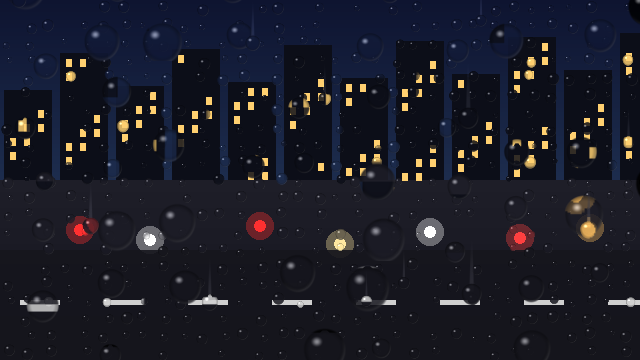
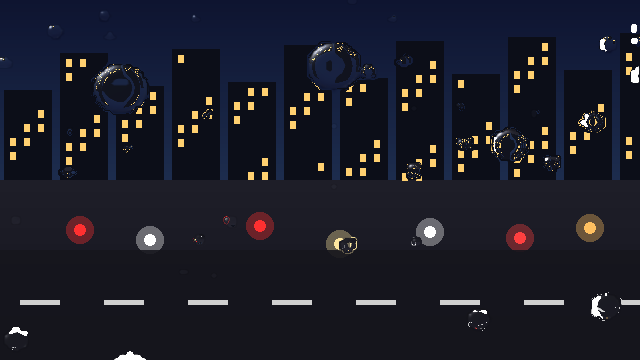
perf(engine): flash sprites with a cached silhouette overlay instead of a filter pass
A flashing sprite cost one extra render pass (323 ms per frame at 1000 sprites
on WebGL, 184 ms on WebGPU). It is now a batched overlay sprite over a
white silhouette texture built once per source texture: 1.2 and 1.8 ms at 1000,
same pixels. The filter remains the fallback while a silhouette cannot be built.

diff --git a/packages/engine/src/systems/RenderPipeline.ts b/packages/engine/src/systems/RenderPipeline.ts
@@ -40,7 +40,7 @@ import type { SceneRenderer } from "../Game.js";
 import { Sprite, resolveSpriteFramePath } from "../components/Sprite.js";
 import { SpriteFlash } from "../components/SpriteFlash.js";
 import { FlashFilterPool } from "./SpriteFlashSystem.js";
-import type { ColorOverlayFilter } from "pixi-filters";
+import { ColorOverlayFilter } from "pixi-filters";
 import { Transform } from "../components/Transform.js";
 import { Projection3D } from "../components/Projection3D.js";
 import { RenderSystem, type RenderSystemOptions } from "./RenderSystem.js";
@@ -1375,9 +1375,64 @@ export class RenderPipeline implements SceneRenderer {
   }
 
   /**
-   * Check a pooled `ColorOverlayFilter` out while the entity's `SpriteFlash.amount`
-   * is above 0, return it to the pool otherwise. `_applySpriteShader` (called
-   * right after) attaches/detaches it, after any shader filter.
+   * One white silhouette texture per source texture, built on first flash.
+   * A flash is then a second, batched sprite over the original (tinted the
+   * flash colour at `amount` alpha), which costs a quad instead of the extra
+   * render pass a filter needs per sprite.
+   */
+  private readonly _silhouettes = new WeakMap<Texture, Texture>();
+  private readonly _flashOverlays = new WeakMap<PixiSprite, PixiSprite>();
+  private readonly _overlayPool: PixiSprite[] = [];
+  private _liveOverlays = 0;
+
+  /** Flash overlays currently attached. */
+  get activeFlashOverlayCount(): number {
+    return this._liveOverlays;
+  }
+
+  /** The white silhouette of `texture` (alpha kept), or `undefined` while it cannot be built. */
+  private _silhouetteOf(texture: Texture): Texture | undefined {
+    const cached = this._silhouettes.get(texture);
+    if (cached !== undefined) return cached;
+    if (
+      !this._render.hasRenderer ||
+      texture === Texture.EMPTY ||
+      texture === Texture.WHITE ||
+      texture.orig.width <= 0 ||
+      texture.orig.height <= 0
+    )
+      return undefined;
+    const target = RenderTexture.create({
+      width: texture.orig.width,
+      height: texture.orig.height,
+      resolution: texture.source.resolution,
+    });
+    const source = new PixiSprite(texture);
+    const filter = new ColorOverlayFilter();
+    filter.color = 0xffffff;
+    filter.alpha = 1;
+    source.filters = [filter];
+    this._render.renderer.render({ container: source, target, clear: true });
+    source.destroy();
+    filter.destroy();
+    this._silhouettes.set(texture, target);
+    return target;
+  }
+
+  private _releaseFlashOverlay(pixiSprite: PixiSprite): void {
+    const overlay = this._flashOverlays.get(pixiSprite);
+    if (overlay === undefined) return;
+    this._flashOverlays.delete(pixiSprite);
+    pixiSprite.removeChild(overlay);
+    this._liveOverlays--;
+    this._overlayPool.push(overlay);
+  }
+
+  /**
+   * While the entity's `SpriteFlash.amount` is above 0 the sprite shows a
+   * silhouette overlay; the pooled `ColorOverlayFilter` remains the fallback
+   * for a texture whose silhouette cannot be built (no renderer yet, a
+   * texture still loading). `_applySpriteShader` attaches/detaches the filter.
    */
   private _resolveSpriteFlash(
     pixiSprite: PixiSprite,
@@ -1388,12 +1443,33 @@ export class RenderPipeline implements SceneRenderer {
       : undefined;
     const held = this._flashFilters.get(pixiSprite);
     if (flash === undefined || !(flash.amount > 0)) {
+      this._releaseFlashOverlay(pixiSprite);
       if (held !== undefined) {
         this._flashFilters.delete(pixiSprite);
         this._flashPool.release(held);
       }
       return;
     }
+    const silhouette = this._silhouetteOf(pixiSprite.texture);
+    if (silhouette !== undefined) {
+      if (held !== undefined) {
+        this._flashFilters.delete(pixiSprite);
+        this._flashPool.release(held);
+      }
+      let overlay = this._flashOverlays.get(pixiSprite);
+      if (overlay === undefined) {
+        overlay = this._overlayPool.pop() ?? new PixiSprite(silhouette);
+        this._flashOverlays.set(pixiSprite, overlay);
+        pixiSprite.addChild(overlay);
+        this._liveOverlays++;
+      }
+      if (overlay.texture !== silhouette) overlay.texture = silhouette;
+      overlay.anchor.copyFrom(pixiSprite.anchor);
+      overlay.tint = flash.color;
+      overlay.alpha = flash.amount;
+      return;
+    }
+    this._releaseFlashOverlay(pixiSprite);
     if (held !== undefined) {
       this._flashPool.configure(held, flash.color, flash.amount);
       return;
@@ -1815,6 +1891,7 @@ export class RenderPipeline implements SceneRenderer {
   private _removeSprite(tracking: SceneTracking, eid: number): void {
     const pixiSprite = tracking.sprites.get(eid);
     if (pixiSprite === undefined) return;
+    this._releaseFlashOverlay(pixiSprite);
     const held = this._flashFilters.get(pixiSprite);
     if (held !== undefined) {
       this._flashFilters.delete(pixiSprite);

diff --git a/packages/engine/scripts/gpu-verify.harness.ts b/packages/engine/scripts/gpu-verify.harness.ts
@@ -16,6 +16,7 @@ import {
   Scene,
   Transform,
   Sprite,
+  SpriteFlash,
   FontRegistry,
   RainGlassFilter,
   createCustomShaderFilter,
@@ -486,6 +487,7 @@ export async function probe(): Promise<unknown> {
   darkness,
   rendererFilterProbe,
   mapUploadProbe,
+  flashBench,
 };
 void PixiSprite;
 
@@ -627,5 +629,109 @@ export async function rendererFilterProbe(
     rowBands: bands("row"),
     colBands: bands("col"),
     ...(out ? rainStats(base, out) : {}),
+  };
+}
+
+// Waits for the GPU to finish the submitted work (WebGL finish / WebGPU queue drain).
+async function gpuDone(p: RenderPipeline): Promise<void> {
+  const r = p.renderer as unknown as {
+    gl?: WebGL2RenderingContext;
+    gpu?: { device: { queue: { onSubmittedWorkDone(): Promise<void> } } };
+  };
+  if (r.gl) r.gl.finish();
+  else if (r.gpu) await r.gpu.device.queue.onSubmittedWorkDone();
+}
+
+// SpriteFlash cost and correctness: N sprites, all flashing vs none, GPU-finished
+// frame time, plus a pixel check (white silhouette at amount 1, original at 0).
+export async function flashBench(
+  counts: number[] = [50, 200, 1000],
+): Promise<Record<string, unknown>> {
+  W = 640;
+  H = 360;
+  const runs: Record<string, unknown>[] = [];
+  let renderer = "";
+  for (const n of counts) {
+    for (const flashing of [false, true]) {
+      const p = await mkPipeline(640, 360, {
+        textureLoader: () => Promise.resolve(solidTexture()),
+      });
+      renderer = (p.renderer as unknown as { gl?: unknown }).gl
+        ? "webgl"
+        : "webgpu";
+      const s = new Scene();
+      for (let i = 0; i < n; i++) {
+        const e = s.spawn();
+        e.add(Transform, {
+          x: 20 + ((i * 37) % 600),
+          y: 20 + ((i * 53) % 320),
+        });
+        e.add(Sprite, { texturePath: "t.png" });
+        if (flashing)
+          e.add(SpriteFlash, {
+            color: 0xffffff,
+            amount: 1,
+            peak: 1,
+            active: true,
+          });
+      }
+      p.syncEntities(s);
+      await new Promise((r) => setTimeout(r, 100));
+      for (let i = 0; i < 10; i++) p.renderFrame(s);
+      await gpuDone(p);
+      const frames = 60;
+      const t0 = performance.now();
+      for (let i = 0; i < frames; i++) {
+        p.syncEntities(s);
+        p.renderFrame(s);
+      }
+      await gpuDone(p);
+      runs.push({
+        n,
+        flashing,
+        msPerFrame: +((performance.now() - t0) / frames).toFixed(3),
+      });
+    }
+  }
+  // Pixel check: one sprite, amount 1 vs 0.
+  const probe = async (amount: number): Promise<number[]> => {
+    W = 128;
+    H = 128;
+    const p = await mkPipeline(128, 128, {
+      textureLoader: () => Promise.resolve(solidTexture()),
+    });
+    const s = new Scene();
+    const e = s.spawn();
+    e.add(Transform, { x: 64, y: 64 });
+    e.add(Sprite, { texturePath: "t.png" });
+    e.add(SpriteFlash, {
+      color: 0xffffff,
+      amount,
+      peak: 1,
+      active: amount > 0,
+    });
+    p.syncEntities(s);
+    await new Promise((r) => setTimeout(r, 100));
+    p.renderFrame(s);
+    const img = px(p, p.renderer.lastObjectRendered as Container);
+    const k = img.width / 128;
+    const at = (x: number, y: number): number[] => {
+      const i = (Math.floor(y * k) * img.width + Math.floor(x * k)) * 4;
+      return [
+        img.data[i]!,
+        img.data[i + 1]!,
+        img.data[i + 2]!,
+        img.data[i + 3]!,
+      ];
+    };
+    // Sprite 64x64 centred: red half left of x=64, transparent right of the blue strip.
+    return [...at(50, 64), ...at(72, 64), ...at(120, 64)];
+  };
+  return {
+    renderer,
+    runs,
+    flashed: await probe(1),
+    half: await probe(0.5),
+    plain: await probe(0),
   };
 }

diff --git a/packages/engine/dist-types/systems/RenderPipeline.d.ts b/packages/engine/dist-types/systems/RenderPipeline.d.ts
@@ -516,9 +516,25 @@ export declare class RenderPipeline implements SceneRenderer {
   /** Flash filters currently attached (pool checked out). */
   get activeFlashFilterCount(): number;
   /**
-   * Check a pooled `ColorOverlayFilter` out while the entity's `SpriteFlash.amount`
-   * is above 0, return it to the pool otherwise. `_applySpriteShader` (called
-   * right after) attaches/detaches it, after any shader filter.
+   * One white silhouette texture per source texture, built on first flash.
+   * A flash is then a second, batched sprite over the original (tinted the
+   * flash colour at `amount` alpha), which costs a quad instead of the extra
+   * render pass a filter needs per sprite.
+   */
+  private readonly _silhouettes;
+  private readonly _flashOverlays;
+  private readonly _overlayPool;
+  private _liveOverlays;
+  /** Flash overlays currently attached. */
+  get activeFlashOverlayCount(): number;
+  /** The white silhouette of `texture` (alpha kept), or `undefined` while it cannot be built. */
+  private _silhouetteOf;
+  private _releaseFlashOverlay;
+  /**
+   * While the entity's `SpriteFlash.amount` is above 0 the sprite shows a
+   * silhouette overlay; the pooled `ColorOverlayFilter` remains the fallback
+   * for a texture whose silhouette cannot be built (no renderer yet, a
+   * texture still loading). `_applySpriteShader` attaches/detaches the filter.
    */
   private _resolveSpriteFlash;
   /** Shared `CustomShaderFilter` per registered shader id, built lazily on first use. */

diff --git a/packages/engine/dist-types/systems/RenderSystem.d.ts b/packages/engine/dist-types/systems/RenderSystem.d.ts
@@ -303,6 +303,8 @@ export declare class RenderSystem {
    * simultaneous cameras — this method does not attempt that profiling.
    */
   renderMultiCamera(viewports: readonly CameraViewport[]): void;
+  /** `true` once `init()` has built the pixi renderer. */
+  get hasRenderer(): boolean;
   get renderer(): Renderer;
   get stage(): Container;
   get canvas(): HTMLCanvasElement;

diff --git a/packages/engine/src/systems/RenderSystem.ts b/packages/engine/src/systems/RenderSystem.ts
@@ -927,6 +927,11 @@ export class RenderSystem {
     this._renderer.render(this._multiCameraCompositor);
   }
 
+  /** `true` once `init()` has built the pixi renderer. */
+  get hasRenderer(): boolean {
+    return this._renderer !== null;
+  }
+
   get renderer(): Renderer {
     if (this._renderer === null)
       throw new Error("RenderSystem not initialized");

diff --git a/docs/gpu-verify/README.md b/docs/gpu-verify/README.md
@@ -63,3 +63,19 @@ Harness fixes found on the way: readbacks are in device pixels (the harness now 
 holds at a device pixel ratio of 2); the old "trails elongate" check compared wet-mark run lengths and failed
 identically on software and on the real GPU, so it is now a same-seed frame difference with the ratios logged
 for information. Whether trails read as vertical streaks is a visual call.
+
+### Sprite flash cost (fixed)
+
+`SpriteFlash` was a pooled `ColorOverlayFilter` per flashing sprite, one extra render pass each. Measured on the
+M4 Pro at 640x360, GPU-finished, per frame:
+
+| Flashing sprites | Filter, WebGL | Filter, WebGPU | Silhouette overlay, WebGL | Silhouette overlay, WebGPU |
+| ---------------- | ------------- | -------------- | ------------------------- | -------------------------- |
+| 50               | 3.7 ms        | 9.5 ms         | 0.11 ms                   | 0.19 ms                    |
+| 200              | 59.6 ms       | 36.9 ms        | 0.29 ms                   | 0.50 ms                    |
+| 1000             | 323 ms        | 184 ms         | 1.2 ms                    | 1.8 ms                     |
+
+A flash is now a second, batched sprite over the original, using a white silhouette texture built once per source
+texture and tinted the flash colour at `amount` alpha. The pixels are the same blend the filter produced:
+white at 1, (227, 142, 142) for a (200, 30, 30) pixel at 0.5, the original at 0, transparent texels stay transparent.
+The filter stays as the fallback while a silhouette cannot be built (no renderer yet, texture still loading).
